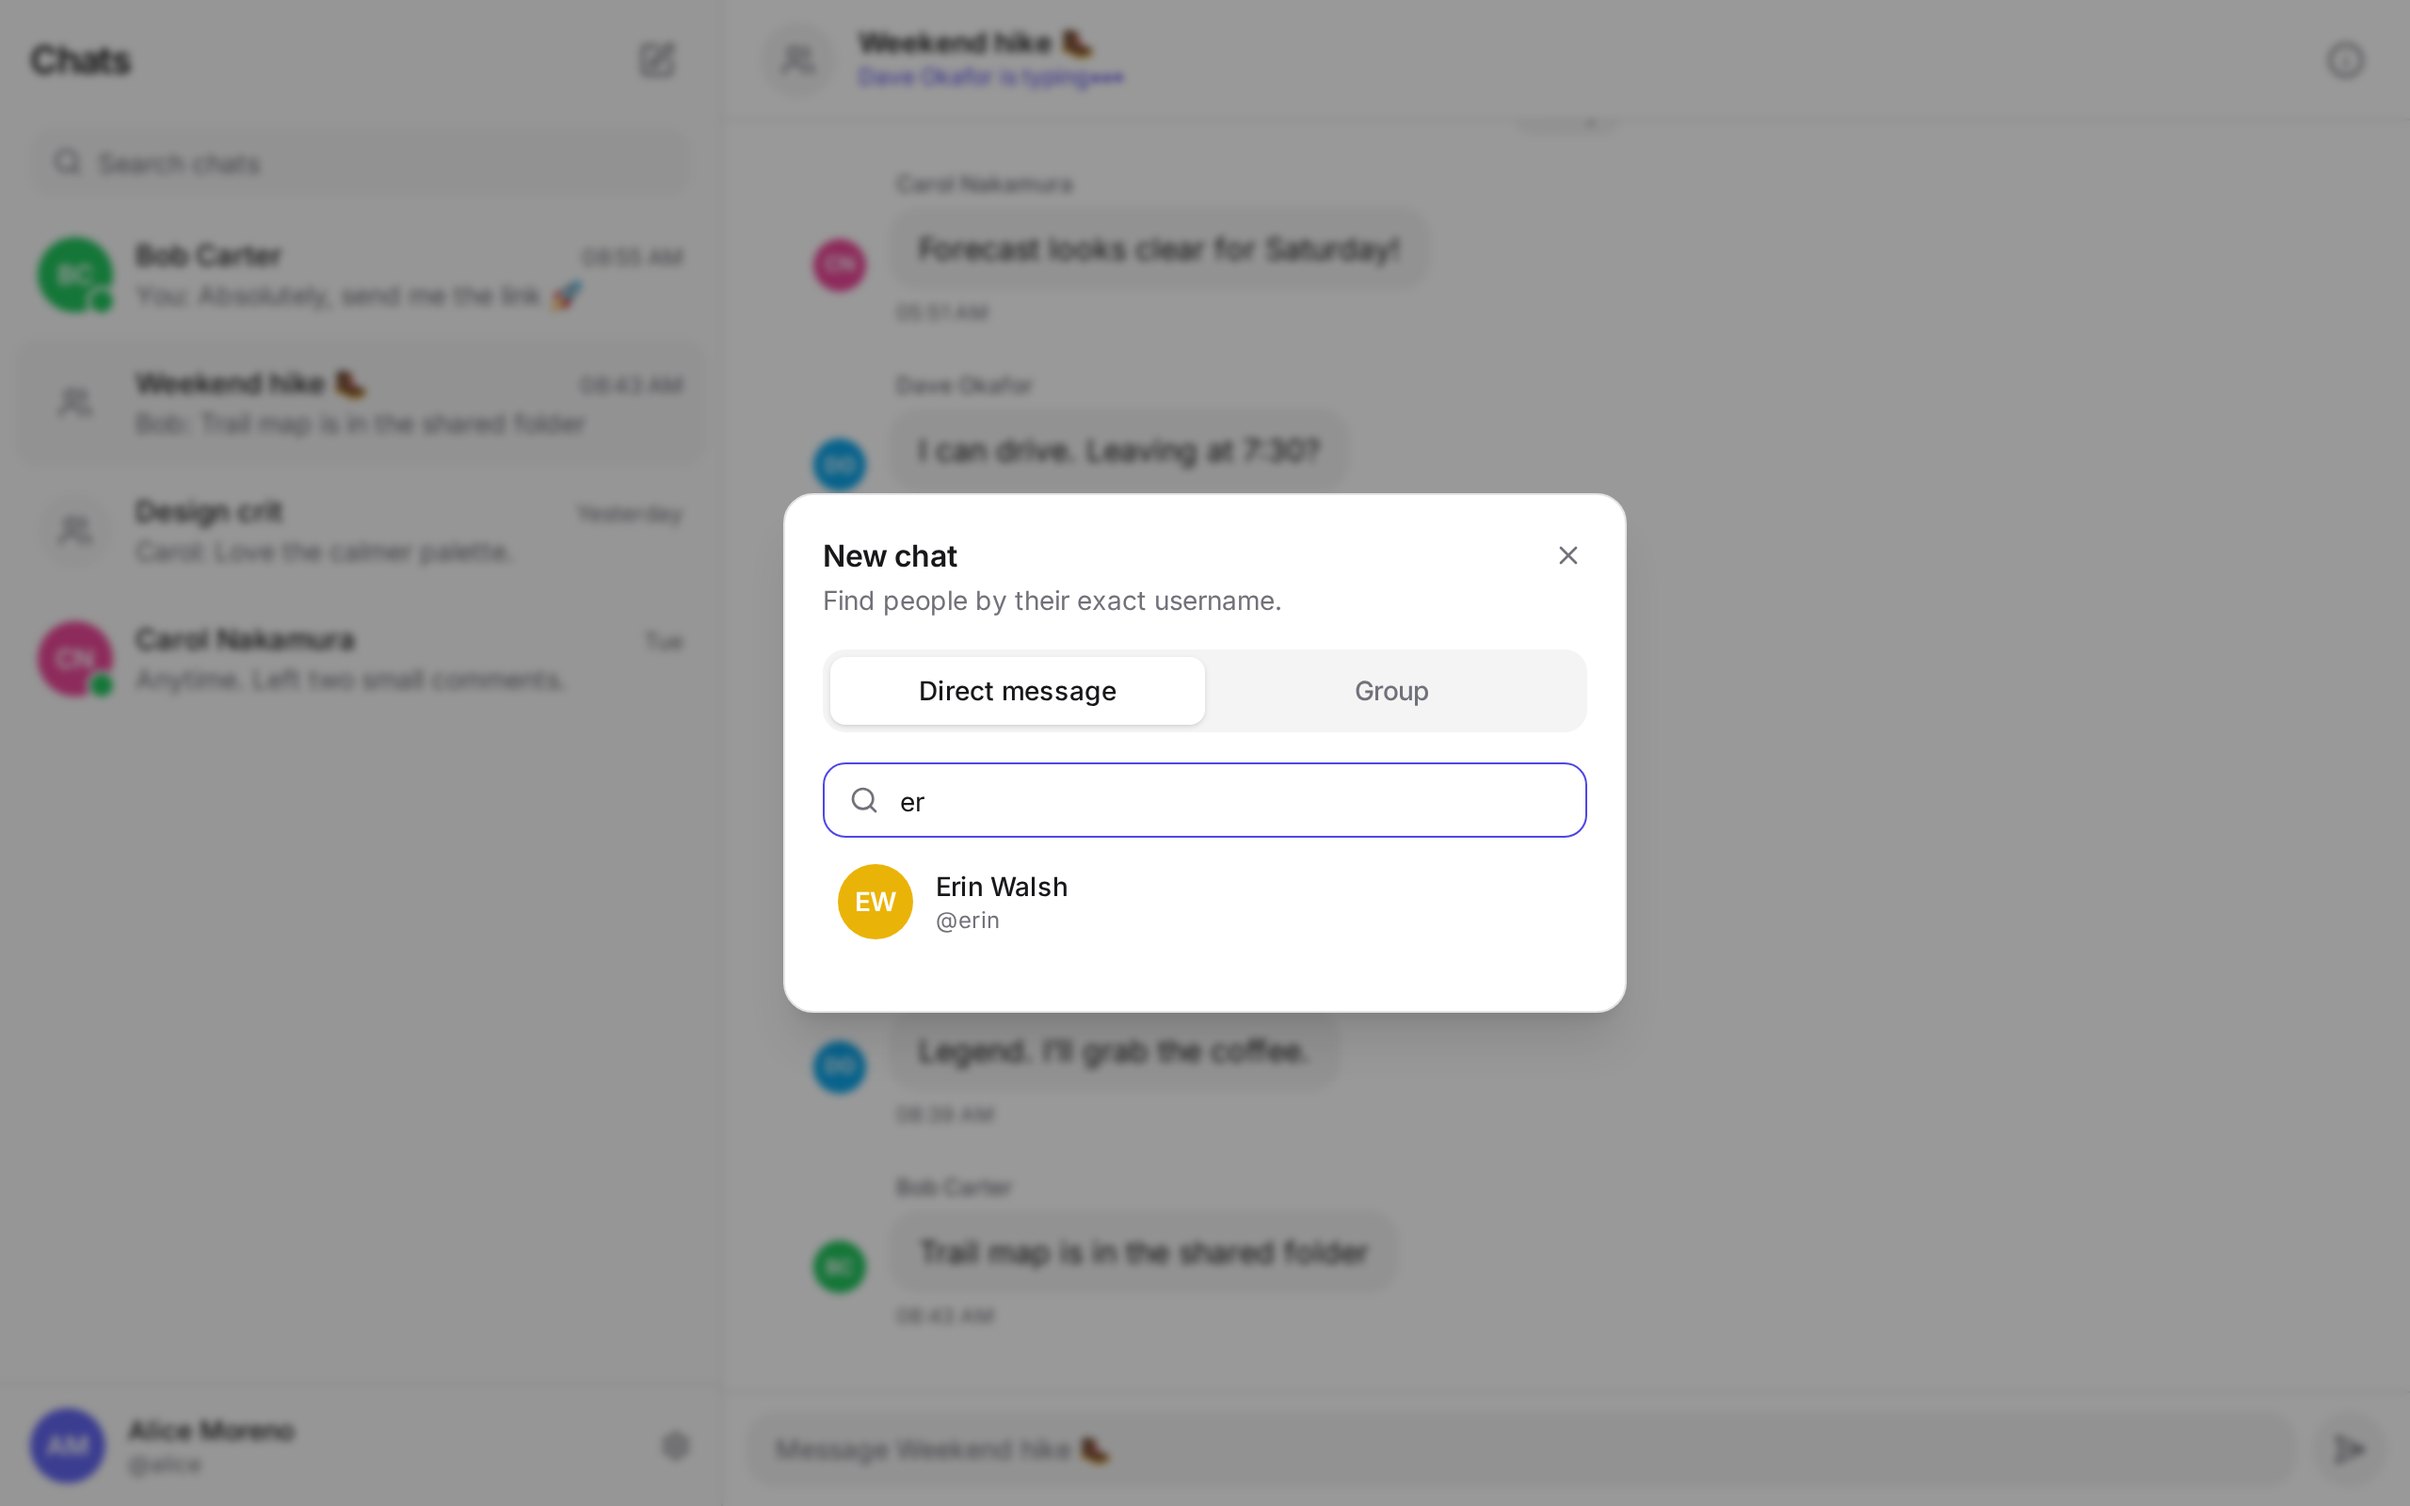
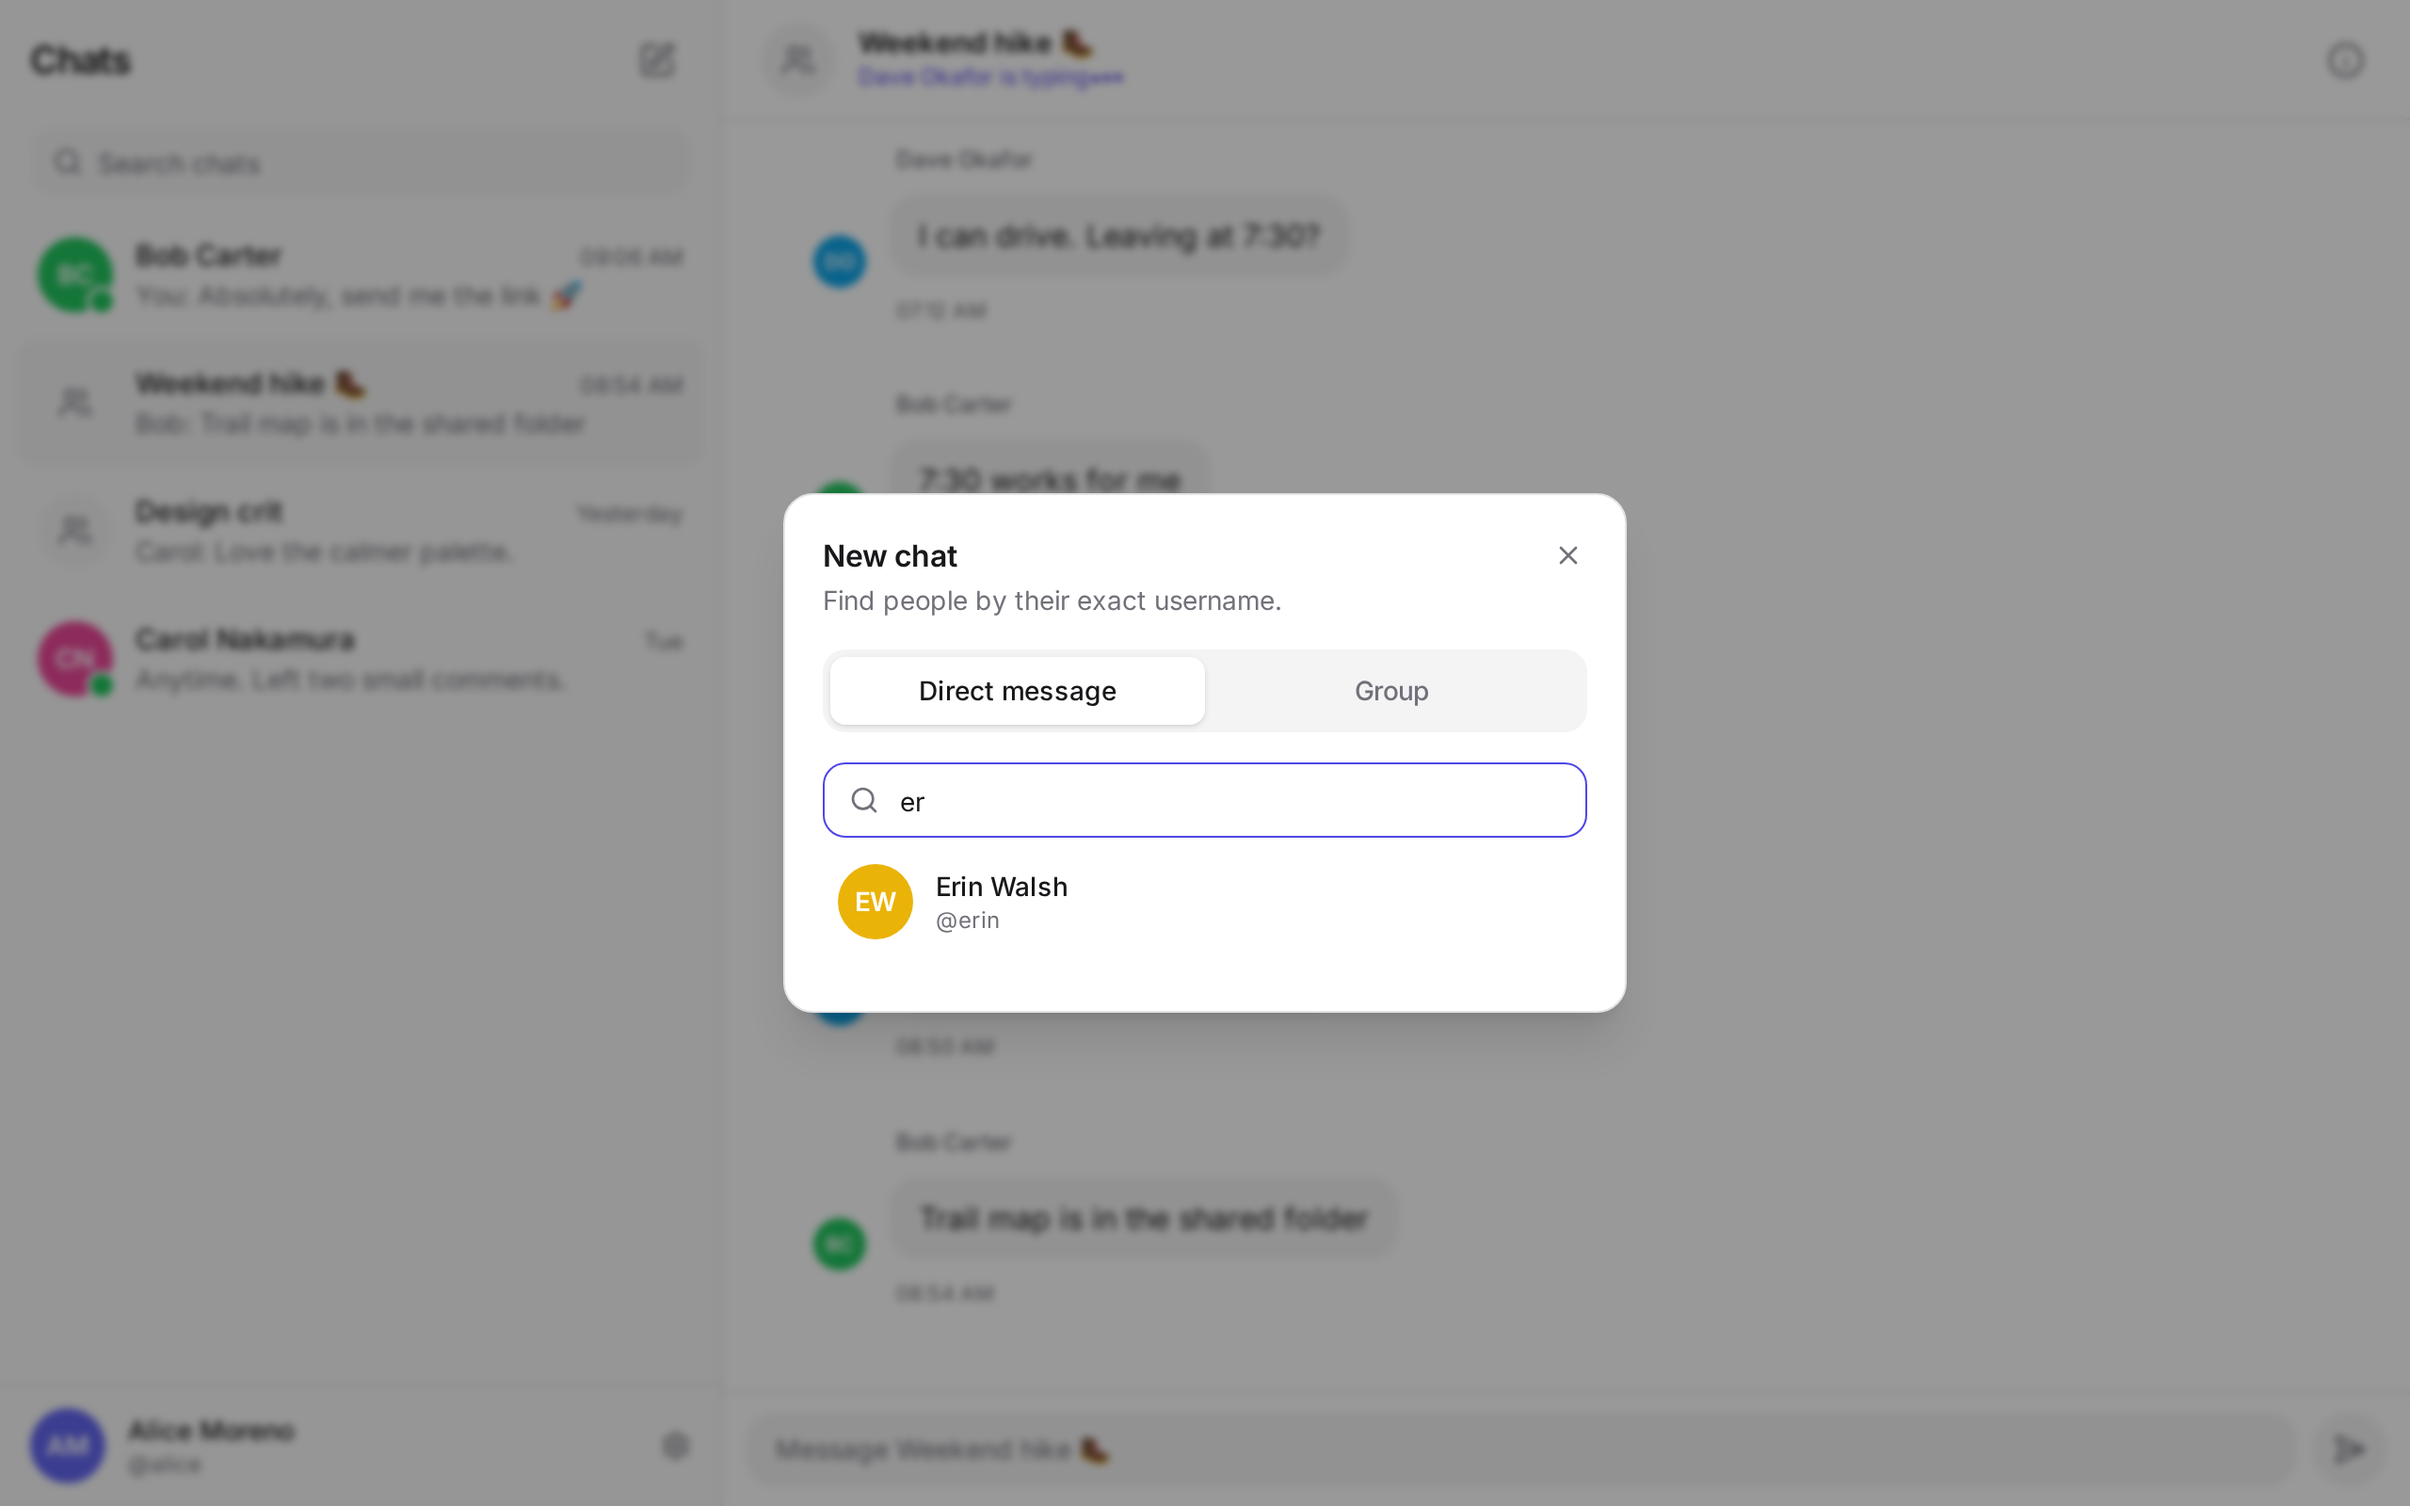
fix(web): stop the app shell scrolling sideways; roomier bubble runs
overflow-clip on the shell/body so focus or drags can never shift the layout,
auth screen scrolls within itself, larger gap between consecutive bubbles on desktop.

diff --git a/apps/web/src/features/auth/AuthPage.tsx b/apps/web/src/features/auth/AuthPage.tsx
@@ -79,130 +79,132 @@ export function AuthPage() {
   }
 
   return (
-    <div className="flex min-h-dvh items-center justify-center px-4 py-10 pt-[max(2.5rem,env(safe-area-inset-top))]">
-      <div className="w-full max-w-sm">
-        <div className="mb-8 flex flex-col items-center text-center">
-          <Logo size={48} />
-          <h1 className="mt-4 text-2xl font-semibold tracking-tight">
-            {mode === 'signin' ? 'Welcome back' : 'Create your account'}
-          </h1>
-          <p className="mt-1 text-sm text-muted-foreground">
-            {mode === 'signin'
-              ? 'Sign in to pick up your conversations.'
-              : 'Takes a few seconds. No spam, ever.'}
-          </p>
-        </div>
+    <div className="h-dvh overflow-y-auto">
+      <div className="flex min-h-full items-center justify-center px-4 py-10 pt-[max(2.5rem,env(safe-area-inset-top))]">
+        <div className="w-full max-w-sm">
+          <div className="mb-8 flex flex-col items-center text-center">
+            <Logo size={48} />
+            <h1 className="mt-4 text-2xl font-semibold tracking-tight">
+              {mode === 'signin' ? 'Welcome back' : 'Create your account'}
+            </h1>
+            <p className="mt-1 text-sm text-muted-foreground">
+              {mode === 'signin'
+                ? 'Sign in to pick up your conversations.'
+                : 'Takes a few seconds. No spam, ever.'}
+            </p>
+          </div>
 
-        <div
-          role="tablist"
-          aria-label="Account"
-          className="mb-5 grid grid-cols-2 rounded-xl bg-muted p-1"
-        >
-          {(['signin', 'signup'] as const).map((m) => (
-            <button
-              key={m}
-              role="tab"
-              type="button"
-              aria-selected={mode === m}
-              onClick={() => switchMode(m)}
-              className={cn(
-                'h-10 rounded-lg text-sm font-medium transition-colors md:h-9',
-                mode === m
-                  ? 'bg-background shadow-sm'
-                  : 'text-muted-foreground hover:text-foreground',
-              )}
-            >
-              {m === 'signin' ? 'Sign in' : 'Sign up'}
-            </button>
-          ))}
-        </div>
-
-        <form onSubmit={submit} noValidate className="space-y-4">
-          {mode === 'signin' ? (
-            <Field label="Username or email" error={errors.identifier}>
-              {(p) => (
-                <Input
-                  {...p}
-                  value={values.identifier}
-                  onChange={set('identifier')}
-                  autoComplete="username"
-                  autoCapitalize="none"
-                  autoCorrect="off"
-                  autoFocus
-                />
-              )}
-            </Field>
-          ) : (
-            <>
-              <Field
-                label="Username"
-                error={errors.username}
-                hint="3–20 letters, numbers or underscores. This is how people find you."
+          <div
+            role="tablist"
+            aria-label="Account"
+            className="mb-5 grid grid-cols-2 rounded-xl bg-muted p-1"
+          >
+            {(['signin', 'signup'] as const).map((m) => (
+              <button
+                key={m}
+                role="tab"
+                type="button"
+                aria-selected={mode === m}
+                onClick={() => switchMode(m)}
+                className={cn(
+                  'h-10 rounded-lg text-sm font-medium transition-colors md:h-9',
+                  mode === m
+                    ? 'bg-background shadow-sm'
+                    : 'text-muted-foreground hover:text-foreground',
+                )}
               >
+                {m === 'signin' ? 'Sign in' : 'Sign up'}
+              </button>
+            ))}
+          </div>
+
+          <form onSubmit={submit} noValidate className="space-y-4">
+            {mode === 'signin' ? (
+              <Field label="Username or email" error={errors.identifier}>
                 {(p) => (
                   <Input
                     {...p}
-                    value={values.username}
-                    onChange={set('username')}
+                    value={values.identifier}
+                    onChange={set('identifier')}
                     autoComplete="username"
                     autoCapitalize="none"
                     autoCorrect="off"
-                    spellCheck={false}
                     autoFocus
                   />
                 )}
               </Field>
-              <Field label="Email" error={errors.email}>
-                {(p) => (
+            ) : (
+              <>
+                <Field
+                  label="Username"
+                  error={errors.username}
+                  hint="3–20 letters, numbers or underscores. This is how people find you."
+                >
+                  {(p) => (
+                    <Input
+                      {...p}
+                      value={values.username}
+                      onChange={set('username')}
+                      autoComplete="username"
+                      autoCapitalize="none"
+                      autoCorrect="off"
+                      spellCheck={false}
+                      autoFocus
+                    />
+                  )}
+                </Field>
+                <Field label="Email" error={errors.email}>
+                  {(p) => (
+                    <Input
+                      {...p}
+                      type="email"
+                      value={values.email}
+                      onChange={set('email')}
+                      autoComplete="email"
+                    />
+                  )}
+                </Field>
+              </>
+            )}
+
+            <Field
+              label="Password"
+              error={errors.password}
+              hint={mode === 'signup' ? 'At least 8 characters.' : undefined}
+            >
+              {(p) => (
+                <div className="relative">
                   <Input
                     {...p}
-                    type="email"
-                    value={values.email}
-                    onChange={set('email')}
-                    autoComplete="email"
+                    type={showPassword ? 'text' : 'password'}
+                    value={values.password}
+                    onChange={set('password')}
+                    autoComplete={mode === 'signin' ? 'current-password' : 'new-password'}
+                    className="pr-11"
                   />
-                )}
-              </Field>
-            </>
-          )}
+                  <button
+                    type="button"
+                    onClick={() => setShowPassword((s) => !s)}
+                    aria-label={showPassword ? 'Hide password' : 'Show password'}
+                    className="absolute right-1 top-1/2 inline-flex size-9 -translate-y-1/2 items-center justify-center rounded-lg text-muted-foreground hover:text-foreground"
+                  >
+                    {showPassword ? <EyeOff className="size-4" /> : <Eye className="size-4" />}
+                  </button>
+                </div>
+              )}
+            </Field>
 
-          <Field
-            label="Password"
-            error={errors.password}
-            hint={mode === 'signup' ? 'At least 8 characters.' : undefined}
-          >
-            {(p) => (
-              <div className="relative">
-                <Input
-                  {...p}
-                  type={showPassword ? 'text' : 'password'}
-                  value={values.password}
-                  onChange={set('password')}
-                  autoComplete={mode === 'signin' ? 'current-password' : 'new-password'}
-                  className="pr-11"
-                />
-                <button
-                  type="button"
-                  onClick={() => setShowPassword((s) => !s)}
-                  aria-label={showPassword ? 'Hide password' : 'Show password'}
-                  className="absolute right-1 top-1/2 inline-flex size-9 -translate-y-1/2 items-center justify-center rounded-lg text-muted-foreground hover:text-foreground"
-                >
-                  {showPassword ? <EyeOff className="size-4" /> : <Eye className="size-4" />}
-                </button>
-              </div>
-            )}
-          </Field>
+            {formError ? (
+              <p role="alert" className="rounded-xl bg-danger/10 px-3.5 py-2.5 text-sm text-danger">
+                {formError}
+              </p>
+            ) : null}
 
-          {formError ? (
-            <p role="alert" className="rounded-xl bg-danger/10 px-3.5 py-2.5 text-sm text-danger">
-              {formError}
-            </p>
-          ) : null}
-
-          <Button type="submit" loading={loading} className="w-full">
-            {mode === 'signin' ? 'Sign in' : 'Create account'}
-          </Button>
-        </form>
+            <Button type="submit" loading={loading} className="w-full">
+              {mode === 'signin' ? 'Sign in' : 'Create account'}
+            </Button>
+          </form>
+        </div>
       </div>
     </div>
   );

diff --git a/apps/web/src/features/chat/MessageList.tsx b/apps/web/src/features/chat/MessageList.tsx
@@ -181,7 +181,7 @@ export function MessageList({
               <div
                 key={item.key}
                 className={cn(
-                  'mb-2 flex items-end gap-2 md:mb-4 md:gap-3',
+                  'mb-2 flex items-end gap-2 md:mb-7 md:gap-3',
                   item.mine ? 'justify-end' : 'justify-start',
                 )}
               >
@@ -195,7 +195,7 @@ export function MessageList({
                 ) : null}
                 <div
                   className={cn(
-                    'flex min-w-0 max-w-[80%] flex-col gap-0.5 md:max-w-[60%] md:gap-1',
+                    'flex min-w-0 max-w-[80%] flex-col gap-0.5 md:max-w-[60%] md:gap-2.5',
                     item.mine ? 'items-end' : 'items-start',
                   )}
                 >
@@ -225,7 +225,7 @@ export function MessageList({
           )}
 
           {pending.map((p) => (
-            <div key={p.tempId} className="mb-2 md:mb-4 flex flex-col items-end gap-0.5">
+            <div key={p.tempId} className="mb-2 md:mb-7 flex flex-col items-end gap-0.5">
               <div className="max-w-[80%] md:max-w-[60%]">
                 <Bubble text={p.body} mine first last muted={p.status === 'sending'} />
               </div>

diff --git a/apps/web/src/features/AppShell.tsx b/apps/web/src/features/AppShell.tsx
@@ -68,7 +68,7 @@ export function AppShell() {
   }, [unread]);
 
   return (
-    <div className="flex h-dvh w-full overflow-hidden">
+    <div className="flex h-dvh w-full overflow-clip">
       <aside
         className={cn(
           'w-full shrink-0 flex-col border-r border-border bg-surface md:flex md:w-80 lg:w-96',

diff --git a/apps/web/src/index.css b/apps/web/src/index.css
@@ -60,6 +60,7 @@
   }
   body {
     @apply bg-background text-foreground font-sans antialiased;
+    overflow: clip; /* the app scrolls inside its panes, never the page */
     overscroll-behavior: none;
     -webkit-tap-highlight-color: transparent;
   }
